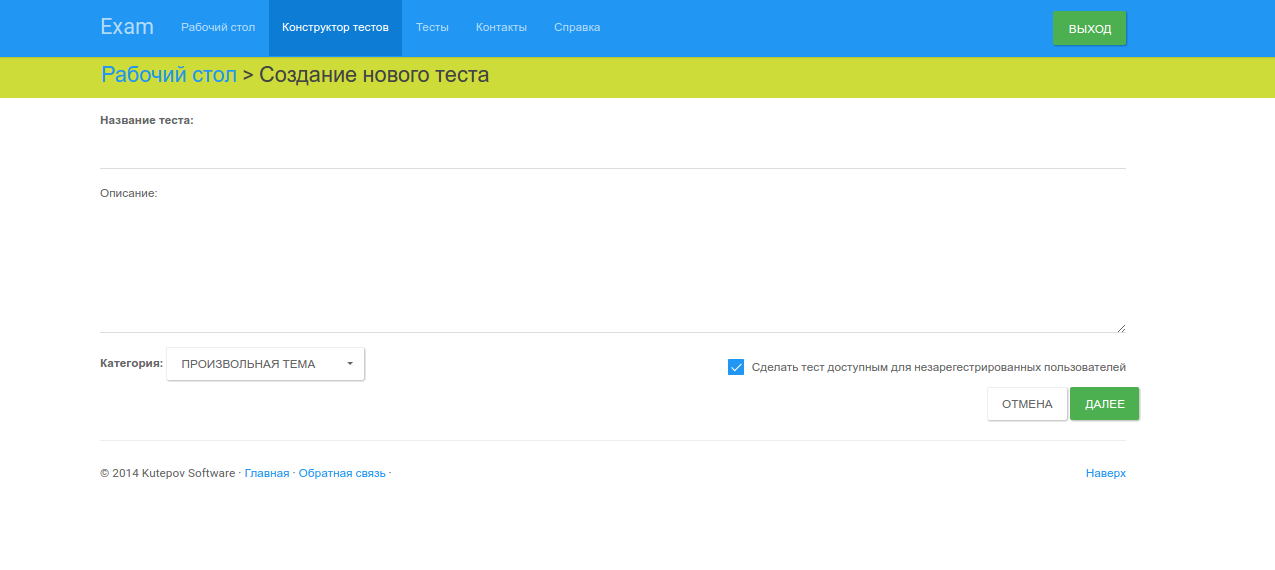
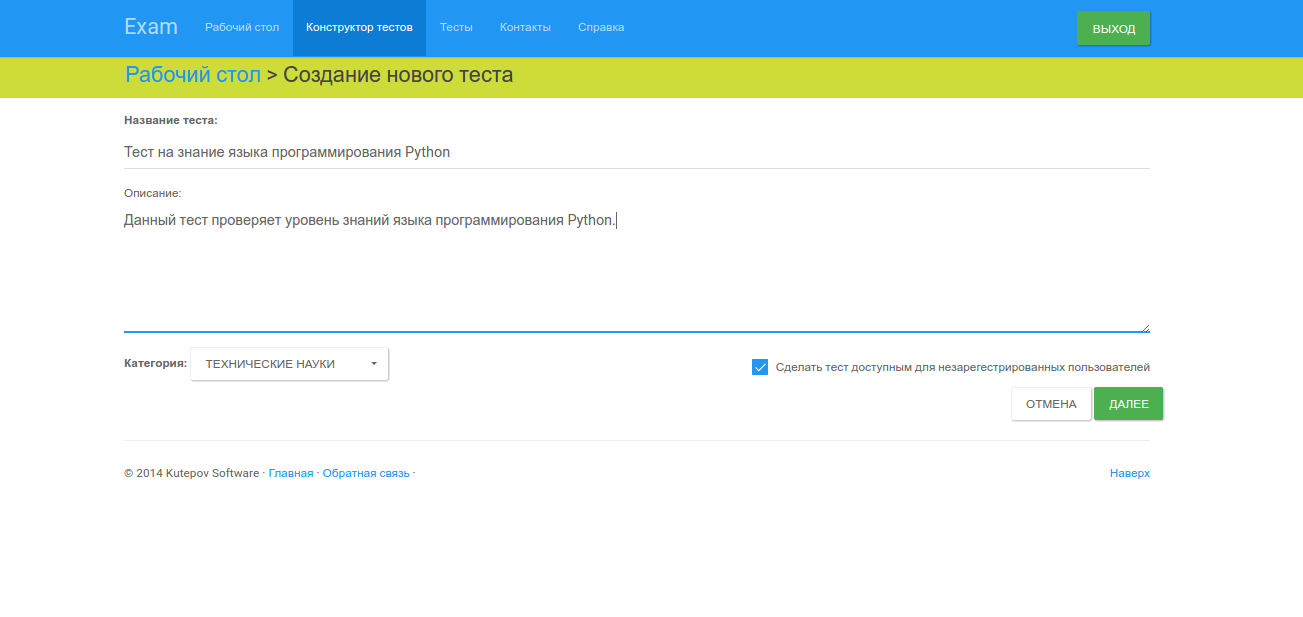
Help page part 2

diff --git a/templates/exam/help.html b/templates/exam/help.html
@@ -36,11 +36,11 @@
             <div class="row">
                 <div class="col-lg-12">
                     <p>Для того чтобы начать полноценную работу с сервисом Exam, Вам необходимо <b>зарегистрироваться</b>.</p>
-                    <p>Выберите в главном меню пункт <b>Регистрация</b> и перед Вами откроется окно с формой для создания нового пользователя:</p>
+                    <p>Выберите в главном меню пункт <b>"Регистрация"</b> и перед Вами откроется окно с формой для создания нового пользователя:</p>
                     <img class="img-thumbnail"
                      src="/static/img/registration.png"
                      alt="Окно регистрации" width="auto" height="auto">
-                    <p>Заполните обязательные поля, отмеченные звёздочкой (заполнение не обязательных полей остаётся на Ваше усмотрение), и нажмите кнопку <b>Зарегистрироваться</b>. </p>
+                    <p>Заполните обязательные поля, отмеченные звёздочкой (заполнение не обязательных полей остаётся на Ваше усмотрение), и нажмите кнопку <b>"Зарегистрироваться"</b>. </p>
                     <p>Если всё было заполнено правильно, то Вы увидите окно с сообщением об успешной регистрации:</p>
                     <img class="img-thumbnail"
                      src="/static/img/registration_complete.png"
@@ -57,7 +57,7 @@
                     <img class="img-thumbnail"
                      src="/static/img/sing_in.png"
                      alt="Вход в систему" width="auto" height="auto">
-                    <p>После этого нажмите кнопку <b>Вход</b>. Если Вы ввели правильные данные, система Вас успешно авторизирует и перенаправит на страницу Вашего рабочего стола.</p>
+                    <p>После этого нажмите кнопку <b>"Вход"</b>. Если Вы ввели правильные данные, система Вас успешно авторизирует и перенаправит на страницу Вашего рабочего стола.</p>
                 </div>
             </div>
             <a name="create_test"></a>
@@ -66,10 +66,41 @@
             <div class="row">
                 <div class="col-lg-12">
                     <p>После как Вы <a href="#sign_in">вошли в систему</a>, Вы можете полноценно работать с сервисом Exam.</p>
-                    <p>Для того чтобы создать свой тест, выберите в главном меню пункт <b>Конструктор тестов</b> или перейдите на ребочий стол (пункт <b>Рабочий стол</b> в главном меню) и нажмите кнопку <b>Создать новый тест</b></p>
+                    <p>Для того чтобы создать свой тест, выберите в главном меню пункт <b>"Конструктор тестов"</b> или перейдите на рабочий стол (пункт <b>"Рабочий стол"</b> в главном меню) и нажмите кнопку <b>"Создать новый тест"</b></p>
                     <p>Перед Вами откроется окно создания нового теста:</p>
                     <img class="img-thumbnail"
                      src="/static/img/create_new_test.png"
+                     alt="Создание нового теста" width="auto" height="auto">
+                    <p>Разберём подробнее эту форму:</p>
+                    <ol>
+                        <li><b>"Название теста"</b> - обязательное для заполнения поле. Должно содержать короткое название Вашего теста.</li>
+                        <li><b>"Описание"</b> - не обязательное для заполнения поле. Должно содержать подробное описание Вашего теста.</li>
+                        <li><b>"Категория"</b> - категория к которой относится тест. (Можно оставить значение по умолчанию)</li>
+                        <li>Чекбокс <b>"Сделать тест доступным для незарегистрированных пользователей"</b> - это очень важный параметр! Если поставить галочку, то для прохождения Вашего теста необязательно будет регистрироваться в системе. Это упрощает задачу проведения тестирования большого количества человек. Если галочку убрать, то тест смогут пройти только зарегистрированные пользователи и Вы получите в отчёте более подробную информацию о них.</li>
+                    </ol>
+                    <p>После того, как Вы заполните все необходимые поля, нажмите кнопку <b>"Далее"</b>.</p>
+                    <p>Откроется окно создания вопроса:</p>
+                     <img class="img-thumbnail"
+                     src="/static/img/create_new_question.png"
+                     alt="Создание нового теста" width="auto" height="auto">
+                    <p>Окно создания вопроса содержит следующие поля:</p>
+                    <ol>
+                        <li><b>"Вопрос:"</b> - обязательное для заполнения поле. В него Вы должны ввести текст вопроса.</li>
+                        <li><b>"Изображение:"</b> - при желании у Вас есть возможность добавить к вопросу изображение, которое будет содержать дополнительную информацию (например математические формулы и т.п.).</li>
+                        <li><b>"Тип вопроса:"</b> - Вам доступно 3 различных типа вопроса на выбор:
+                            <ul>
+                                <li><b>"Содержит один или несколько правильных вариантов ответа"</b> - при ответе на вопрос данного типа у учащегося будет возможность выбрать один или несколько вариантов ответа</li>
+                                <li><b>"Содержит только один правильный вариант ответа"</b> - при ответе на вопрос данного типа у учащегося будет возможность выбрать только один вариант ответа</li>
+                                <li><b>"Вопрос со свободной формой ответа"</b> - при ответе на вопрос данного типа учащийся должен будет записать свой ответ в специальное поле. Ответ учащегося будет засчитан, если он совпадёт с тем что указал преподаватель в качестве правильного ответа на данный вопрос.</li>
+                            </ul>
+                        </li>
+                        <li>Блок <b>"Варианты ответа:"</b> (если выбран тип вопроса "Содержит один или несколько правильных вариантов ответа" или "Содержит только один правильный вариант ответа") - содержит обязательные для заполнения поля. Вам необходимо заполнить поля вариантами ответа на вопрос и отметить какой/какие из них являются верными.</li>
+                        <li><b>"Введите правильный ответ:"</b> (если выбран тип вопроса "Вопрос со свободной формой ответа") - обязательное для заполнения поле. Сюда Вы должны ввести правильный ответ на вопрос.</li>
+                    </ol>
+                    <p>После того как Вы заполните все необходимые поля, нажмите кнопку <b>"Далее"</b>, если хотите добавить ещё один вопрос в тест. Если же Вы завершили составление теста и этот вопрос является последним, то нажмите кнопку <b>"Закончить".</b></p>
+                    <p>Созданный тест появится в списке тестов на Вашем рабочем столе:</p>
+                    <img class="img-thumbnail"
+                     src="/static/img/dashboard.png"
                      alt="Создание нового теста" width="auto" height="auto">
                 </div>
             </div>
